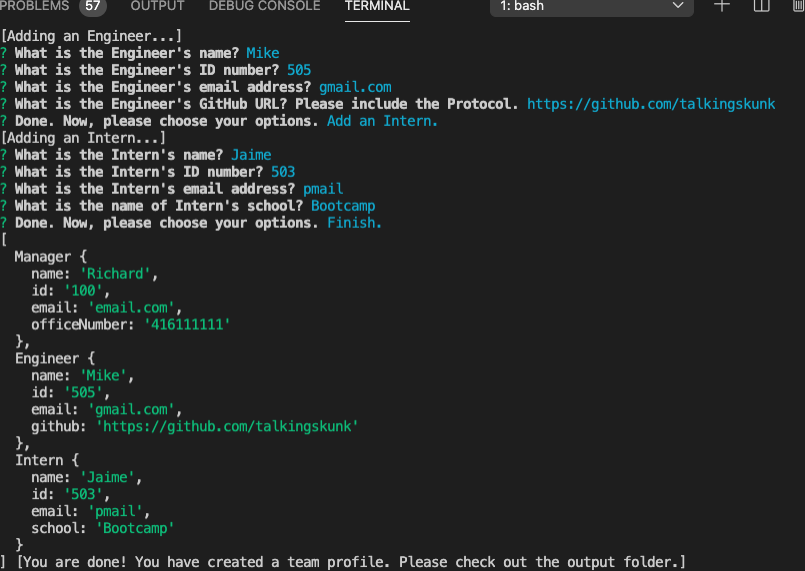
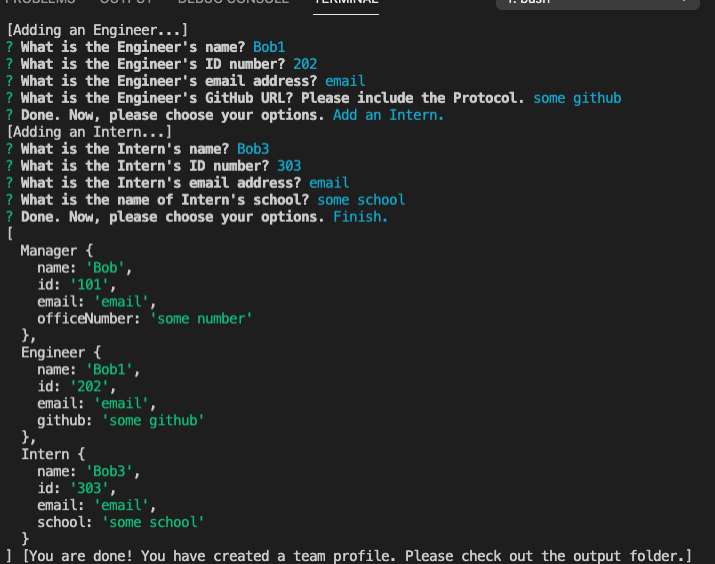
screenshot change

diff --git a/output/team.html b/output/team.html
@@ -23,38 +23,38 @@
             <div class="team-area col-12 d-flex justify-content-center">
                 <div class="card me-4 col-6 col-md-3">
     <div class="card-header" style="background-color: rgb(100, 76, 32); color: white">
-        <h2 class="card-title"><b>Richard</b></h2>
+        <h2 class="card-title"><b>Bob</b></h2>
         <h3 class="card-title"><i class="fas fa-crown"></i>Manager</h3>
     </div>
     <div class="card-body">
         <ul class="list-group">
-            <li class="list-group-item">ID: 100</li>
-            <li class="list-group-item">Email: <a href="mailto:email.com">Email Link</a></li>
-            <li class="list-group-item">Office Number: 416111111</li>
+            <li class="list-group-item">ID: 101</li>
+            <li class="list-group-item">Email: <a href="mailto:email">Email Link</a></li>
+            <li class="list-group-item">Office Number: some number</li>
         </ul>
     </div>
 </div><div class="card me-4 col-6 col-md-3">
     <div class="card-header" style="background-color: rgb(25, 82, 168); color: white">
-        <h2 class="card-title"><b>Mike</b></h2>
+        <h2 class="card-title"><b>Bob1</b></h2>
         <h3 class="card-title"><i class="fas fa-server"></i>Engineer</h3>
     </div>
     <div class="card-body">
         <ul class="list-group">
-            <li class="list-group-item">ID: 505</li>
-            <li class="list-group-item">Email: <a href="mailto:gmail.com" target="_blank">Email Link</a></li>
-            <li class="list-group-item">GitHub: <a href="https://github.com/talkingskunk" target="_blank">GitHub Link</a></li>
+            <li class="list-group-item">ID: 202</li>
+            <li class="list-group-item">Email: <a href="mailto:email" target="_blank">Email Link</a></li>
+            <li class="list-group-item">GitHub: <a href="some github" target="_blank">GitHub Link</a></li>
         </ul>
     </div>
 </div><div class="card me-4 col-6 col-md-3">
     <div class="card-header" style="background-color: rgb(40, 104, 64); color: white">
-        <h2 class="card-title"><b>Jaime</b></h2>
+        <h2 class="card-title"><b>Bob3</b></h2>
         <h3 class="card-title"><i class="fas fa-graduation-cap"></i>Intern</h3>
     </div>
     <div class="card-body">
         <ul class="list-group">
-            <li class="list-group-item">ID: 503</li>
-            <li class="list-group-item">Email: <a href="mailto:pmail">Email Link</a></li>
-            <li class="list-group-item">School: Bootcamp</li>
+            <li class="list-group-item">ID: 303</li>
+            <li class="list-group-item">Email: <a href="mailto:email">Email Link</a></li>
+            <li class="list-group-item">School: some school</li>
         </ul>
     </div>
 </div>
